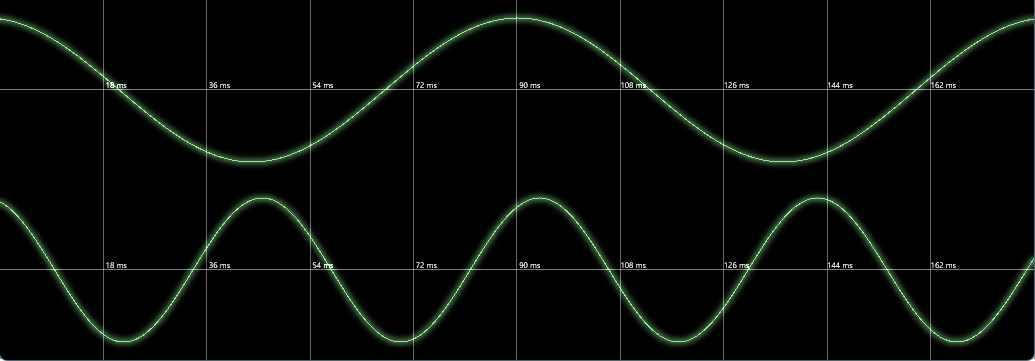
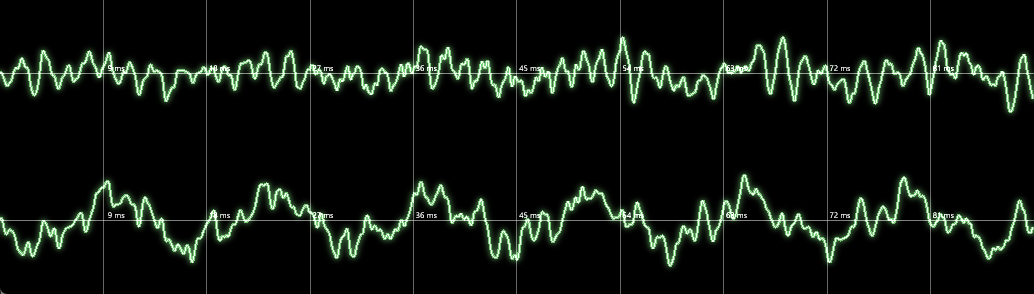
Implemented decimation for the oscilloscope.

Changed region(s): [[0.0, 0.5204, 1.0, 1.0], [0.0, 0.0306, 1.0, 0.4592], [0.9594, 0.0306, 1.0, 0.0918]]

diff --git a/Visuals/Oscilloscope/Oscilloscope.cpp b/Visuals/Oscilloscope/Oscilloscope.cpp
@@ -1,5 +1,5 @@
 
-/** $VER: Oscilloscope.cpp (2026.06.21) P. Stuer - Implements an oscilloscope. **/
+/** $VER: Oscilloscope.cpp (2026.07.04) P. Stuer - Implements an oscilloscope. **/
 
 #include <pch.h>
 
@@ -146,9 +146,15 @@ void oscilloscope_t::Render(ID2D1DeviceContext * deviceContext) noexcept
     {
         const D2D1_SIZE_F SignalSize = { _Size.width - (YAxisWidth * YAxisCount), _Size.height };
 
+        audio_chunk_impl Chunk;
+
+        const double Ratio = (double) _Analysis->_Chunk.get_sample_count() / (double) SignalSize.width;
+
+        _Decimator.Process(_Analysis->_Chunk, Chunk, Ratio);
+
         CComPtr<ID2D1PathGeometry> Geometry;
 
-        hr = CreateSignalGeometry(SignalSize, Geometry);
+        hr = CreateSignalGeometry(Chunk, SignalSize, Geometry);
 
         // Draw the signal in the composite buffer.
         if (SUCCEEDED(hr))
@@ -337,7 +343,7 @@ void oscilloscope_t::DeleteDeviceSpecificResources() noexcept
 /// <summary>
 /// Creates the path geometry for the signal.
 /// </summary>
-HRESULT oscilloscope_t::CreateSignalGeometry(const D2D1_SIZE_F & clientSize, CComPtr<ID2D1PathGeometry> & Geometry) noexcept
+HRESULT oscilloscope_t::CreateSignalGeometry(const audio_chunk_impl & chunk, const D2D1_SIZE_F & clientSize, CComPtr<ID2D1PathGeometry> & Geometry) noexcept
 {
     amplitude_scaler_t Scaler;
 
@@ -356,15 +362,14 @@ HRESULT oscilloscope_t::CreateSignalGeometry(const D2D1_SIZE_F & clientSize, CCo
             break;
     }
 
-    const size_t FrameCount     = _Analysis->_Chunk.get_sample_count();    // get_sample_count() actually returns the number of frames.
-    const uint32_t ChannelCount = _Analysis->_Chunk.get_channel_count();
+    const size_t FrameCount     = chunk.get_sample_count();         // get_sample_count() actually returns the number of frames.
+    const uint32_t ChannelCount = chunk.get_channel_count();
+    const audio_sample * Frames = chunk.get_data();
+    uint32_t AvailableChannels  = chunk.get_channel_config();       // Mask containing the channels in the audio chunk.
 
-    const audio_sample * Samples = _Analysis->_Chunk.get_data();
+    uint32_t SelectedChannels = _GraphOptions->_SelectedChannels;   // Mask containing the channels selected by the user.
+    const size_t SelectedChannelCount = (size_t) std::popcount(AvailableChannels & SelectedChannels);
 
-    uint32_t ChunkChannels    = _Analysis->_Chunk.get_channel_config(); // Mask containing the channels in the audio chunk.
-    uint32_t SelectedChannels = _GraphOptions->_SelectedChannels;      // Mask containing the channels selected by the user.
-
-    const size_t SelectedChannelCount = (size_t) std::popcount(ChunkChannels & _GraphOptions->_SelectedChannels);
     const FLOAT ChannelHeight = clientSize.height / (FLOAT) SelectedChannelCount; // Height available to one channel.
     const FLOAT ChannelMax = ChannelHeight * (_GraphOptions->HasYAxis() ? 1.0f : 0.5f);
 
@@ -382,10 +387,10 @@ HRESULT oscilloscope_t::CreateSignalGeometry(const D2D1_SIZE_F & clientSize, CCo
         FLOAT ChannelBaseline = ChannelMax;
         size_t ChannelOffset = 0;
             
-        while ((ChunkChannels != 0) && (SelectedChannels != 0))
+        while ((AvailableChannels != 0) && (SelectedChannels != 0))
         {
             // Render the signal if the channel is in the chunk and if it has been selected.
-            if (ChunkChannels & 1)
+            if (AvailableChannels & 1)
             {
                 if (SelectedChannels & 1)
                 {
@@ -393,14 +398,14 @@ HRESULT oscilloscope_t::CreateSignalGeometry(const D2D1_SIZE_F & clientSize, CCo
                     const FLOAT dx = clientSize.width / (FLOAT) FrameCount;
 
                     FLOAT x = 0.f;
-                    FLOAT y = ChannelBaseline - (std::clamp((FLOAT) (Scaler(Samples[ChannelOffset]) * _State->_YGain), -1.f, 1.f) * ChannelMax);
+                    FLOAT y = ChannelBaseline - (std::clamp((FLOAT) (Scaler(Frames[ChannelOffset]) * _State->_YGain), -1.f, 1.f) * ChannelMax);
 
                     Sink->BeginFigure(D2D1::Point2F(x, y), D2D1_FIGURE_BEGIN_HOLLOW);
 
-                    for (size_t j = ChannelCount + ChannelOffset; j < SampleCount; j += ChannelCount)
+                    for (size_t i = ChannelCount + ChannelOffset; i < SampleCount; i += ChannelCount)
                     {
                         x += dx;
-                        y = ChannelBaseline - (std::clamp((FLOAT) (Scaler(Samples[j]) * _State->_YGain), -1.f, 1.f) * ChannelMax);
+                        y = ChannelBaseline - (std::clamp((FLOAT) (Scaler(Frames[i]) * _State->_YGain), -1.f, 1.f) * ChannelMax);
 
                         Sink->AddLine(D2D1::Point2F(x, y));
                     }
@@ -414,7 +419,7 @@ HRESULT oscilloscope_t::CreateSignalGeometry(const D2D1_SIZE_F & clientSize, CCo
                 ChannelOffset++;
             }
 
-            ChunkChannels    >>= 1;
+            AvailableChannels >>= 1;
             SelectedChannels >>= 1;
         }
 
@@ -559,63 +564,4 @@ HRESULT oscilloscope_t::CreateAxesCommandList() noexcept
         hr = _AxesCommandList->Close();
 
     return hr;
-}
-
-/// <summary>
-/// Decimates an audio chunk (WIP)
-/// </summary>
-std::vector<D2D1_POINT_2F> DecimateChunk(const audio_sample * frames, size_t frameCount, float timeScale, size_t targetCount)
-{
-    if (frameCount == 0)
-        return {};
-
-    std::vector<D2D1_POINT_2F> Points;
-
-    Points.reserve(targetCount * 2);
-
-    const size_t BucketSize = (size_t) std::max(1.0f, (float) frameCount / (float) targetCount);
-
-    const float TimeStep = timeScale / (float) targetCount;
-
-    for (size_t i = 0; i < frameCount; i += BucketSize)
-    {
-        const size_t End = std::min(i + BucketSize, frameCount);
-
-        audio_sample MinVal = frames[i];
-        audio_sample MaxVal = frames[i];
-
-        size_t MinIdx = i;
-        size_t MaxIdx = i;
-
-        for (size_t j = i + 1; j < End; ++j)
-        {
-            if (frames[j] < MinVal)
-            {
-                MinVal = frames[j];
-                MinIdx = j;
-            }
-
-            if (frames[j] > MaxVal)
-            {
-                MaxVal = frames[j];
-                MaxIdx = j;
-            }
-        }
-
-        float x = ((float) i / (float) frameCount) * timeScale;
-
-        // Add in correct x-order
-        if (MinIdx < MaxIdx)
-        {
-            Points.push_back(D2D1::Point2F(x,                   (FLOAT) MinVal));
-            Points.push_back(D2D1::Point2F(x + TimeStep * 0.5f, (FLOAT) MaxVal));
-        }
-        else
-        {
-            Points.push_back(D2D1::Point2F(x,                   (FLOAT) MaxVal));
-            Points.push_back(D2D1::Point2F(x + TimeStep * 0.5f, (FLOAT) MinVal));
-        }
-    }
-
-    return Points;
 }

diff --git a/Analyzers/Decimator.cpp b/Analyzers/Decimator.cpp
@@ -1,0 +1,88 @@
+
+/** $VER: Decimator.cpp (2026.07.04) P. Stuer - Implements a decimator **/
+
+#include "pch.h"
+
+#include "Decimator.h"
+
+void decimator_t::Process(const audio_chunk & srcChunk, audio_chunk & dstChunk, double ratio) noexcept
+{
+    const uint32_t ChannelCount = srcChunk.get_channels();
+
+    const uint32_t SrcSampleRate   = srcChunk.get_sample_rate();
+    const size_t SrcFrameCount     = srcChunk.get_sample_count();
+
+    const audio_sample * __restrict SrcFrames = srcChunk.get_data();
+
+    const uint32_t DstSampleRate = (uint32_t) std::round(SrcSampleRate / ratio);
+
+    if (DstSampleRate == 0 || std::abs((int) DstSampleRate - (int) SrcSampleRate) < 1)
+    {
+        dstChunk.set_data(SrcFrames, SrcFrameCount, ChannelCount, SrcSampleRate);
+
+        return;
+    }
+
+    const size_t DstFrameCount = (size_t) std::ceil((double) SrcFrameCount / ratio);
+
+    dstChunk.set_channels(ChannelCount, srcChunk.get_channel_config());
+    dstChunk.set_sample_rate(DstSampleRate);
+    dstChunk.set_sample_count(DstFrameCount);
+    dstChunk.set_data_size(DstFrameCount * ChannelCount);
+
+    audio_sample * __restrict DstFrames = dstChunk.get_data();
+
+    if (_FilteredFrames.capacity() != SrcFrameCount * ChannelCount)
+        _FilteredFrames.resize(SrcFrameCount * ChannelCount);
+
+    const auto & Stride = ChannelCount;
+
+    // Apply an anti-aliasing low-pass filter.
+    {
+        std::vector<double> FilterState(ChannelCount, 0.);
+
+        const double Alpha = 0.85 * (0.45 / ratio); // Conservative cutoff
+
+        for (uint32_t ch = 0; ch < ChannelCount; ++ch)
+        {
+            double State = 0.;
+
+            for (size_t i = 0; i < SrcFrameCount; ++i)
+            {
+                double Sample = SrcFrames[(i * Stride) + ch];
+
+                State += (Sample - State) * Alpha;
+
+                _FilteredFrames[(i * Stride) + ch] = (audio_sample) State;
+            }
+
+            FilterState[ch] = State;
+        }
+    }
+
+    // Apply linear interpolation decimation on the filtered samples.
+    for (uint32_t ch = 0; ch < ChannelCount; ++ch)
+    {
+        size_t DstIndex = ch;
+
+        for (size_t DstFrameIndex = 0; DstFrameIndex < DstFrameCount; ++DstFrameIndex)
+        {
+            double SrcFrameIndex = (double) DstFrameIndex * ratio;
+
+            const size_t Index = (size_t) SrcFrameIndex;
+            const double Fraction = SrcFrameIndex - (double) Index;
+
+            if (Index + 1 < SrcFrameCount)
+            {
+                const audio_sample s0 = _FilteredFrames[( Index      * Stride) + ch];
+                const audio_sample s1 = _FilteredFrames[((Index + 1) * Stride) + ch];
+
+                DstFrames[DstIndex] = s0 * (audio_sample) (1. - Fraction) + (s1 * (audio_sample) Fraction);
+            }
+            else
+                DstFrames[DstIndex] = _FilteredFrames[(Index * Stride) + ch];
+
+            DstIndex += Stride;
+        }
+    }
+}

diff --git a/Visuals/Oscilloscope/OscilloscopeXY.cpp b/Visuals/Oscilloscope/OscilloscopeXY.cpp
@@ -1,5 +1,5 @@
 
-/** $VER: OscilloscopeXY.cpp (2026.06.21) P. Stuer - Implements an oscilloscope in X-Y mode. **/
+/** $VER: OscilloscopeXY.cpp (2026.07.04) P. Stuer - Implements an oscilloscope in X-Y mode. **/
 
 #include <pch.h>
 
@@ -95,11 +95,11 @@ void oscilloscope_xy_t::Render(ID2D1DeviceContext * deviceContext) noexcept
         const size_t FrameCount     = _Analysis->_Chunk.get_sample_count();                                 // get_sample_count() actually returns the number of frames.
         const uint32_t ChannelCount = _Analysis->_Chunk.get_channel_count();
 
-        const uint32_t ChunkChannels    = _Analysis->_Chunk.get_channel_config();                           // Mask containing the channels in the audio chunk.
-        const uint32_t SelectedChannels = _GraphOptions->_SelectedChannels;                                 // Mask containing the channels selected by the user.
-        const uint32_t BalanceChannels  = analysis_t::ChannelPairs[(size_t) _GraphOptions->_ChannelPair];   // Mask containing the channels selected by the user as a channel pair.
+        const uint32_t AvailableChannels = _Analysis->_Chunk.get_channel_config();                          // Mask containing the channels in the audio chunk.
+        const uint32_t SelectedChannels  = _GraphOptions->_SelectedChannels;                                // Mask containing the channels selected by the user.
+        const uint32_t BalanceChannels   = analysis_t::ChannelPairs[(size_t) _GraphOptions->_ChannelPair];  // Mask containing the channels selected by the user as a channel pair.
 
-        const uint32_t ChannelMask = ChunkChannels & SelectedChannels & BalanceChannels;
+        const uint32_t ChannelMask = AvailableChannels & SelectedChannels & BalanceChannels;
 
         if ((FrameCount >= 2) && (ChannelCount >= 2) && (ChannelMask != 0))
         {

diff --git a/Visuals/Oscilloscope/Oscilloscope.h b/Visuals/Oscilloscope/Oscilloscope.h
@@ -1,11 +1,13 @@
 
-/** $VER: Oscilloscope.h (2026.06.17) P. Stuer - Implements an oscilloscope. **/
+/** $VER: Oscilloscope.h (2026.07.04) P. Stuer - Implements an oscilloscope. **/
 
 #pragma once
 
 #include <pch.h>
 
 #include "OscilloscopeBase.h"
+
+#include "Decimator.h"
 
 class oscilloscope_t : public oscilloscope_base_t
 {
@@ -35,10 +37,12 @@ private:
     HRESULT CreateDeviceSpecificResources(ID2D1DeviceContext * deviceContext) noexcept;
     void DeleteDeviceSpecificResources() noexcept;
 
-    HRESULT CreateSignalGeometry(const D2D1_SIZE_F & size, CComPtr<ID2D1PathGeometry> & geometry) noexcept;
+    HRESULT CreateSignalGeometry(const audio_chunk_impl & chunk, const D2D1_SIZE_F & size, CComPtr<ID2D1PathGeometry> & geometry) noexcept;
     HRESULT CreateAxesCommandList() noexcept;
 
 private:
+    decimator_t _Decimator;
+
     struct label_t
     {
         std::wstring Text;

diff --git a/Analyzers/Decimator.h b/Analyzers/Decimator.h
@@ -1,0 +1,16 @@
+
+/** $VER: Decimator.h (2026.07.04) P. Stuer - Implements a decimator **/
+
+#pragma once
+
+/// <summary>
+/// Implements a decimator.
+/// </summary>
+class decimator_t
+{
+public:
+    void Process(const audio_chunk & srcChunk, audio_chunk & dstChunk, double ratio = 2.0) noexcept;
+
+private:
+    std::vector<audio_sample> _FilteredFrames;
+};

diff --git a/Resources.h b/Resources.h
@@ -16,7 +16,7 @@
 #define NUM_PRODUCT_PATCH       0
 #define NUM_PRODUCT_PRERELEASE  0
 
-#define STR_RELEASE_TAG         "-alpha6"
+#define STR_RELEASE_TAG         "-alpha7"
 
 /** Component specific **/
 

diff --git a/README.md b/README.md
@@ -153,11 +153,9 @@ To create the component first build the x86 configuration and next the x64 confi
 
 ## Change Log
 
-v0.11.0.0-alpha6, 2026-07-04
+v0.11.0.0-alpha7, 2026-07-xx
 
-- New: `Frame count` settings determines the number of audio frames that will be used by the oscilloscope per screen update.
-- Fixed: Initializing gradient brushes (Regression)
-- Fixed: Phosphor Decay setting was not respected (Regression)
+- New: Oscilloscope uses decimation to improve the quality of the rendered signal.
 
 You can read the full history [here](docs/History.md).
 

diff --git a/docs/History.md b/docs/History.md
@@ -1,6 +1,12 @@
 
 # foo_vis_spectrum_analyzer History
 
+v0.11.0.0-alpha6, 2026-07-04
+
+- New: `Frame count` settings determines the number of audio frames that will be used by the oscilloscope per screen update.
+- Fixed: Initializing gradient brushes (Regression)
+- Fixed: Phosphor Decay setting was not respected (Regression)
+
 v0.11.0.0-alpha5, 2026-06-24
 
 - New: Overlapping graphs support for bar, curve, radial bar and radial curve visualizations. See `Overlap graphs` option on the `Graph` page.
